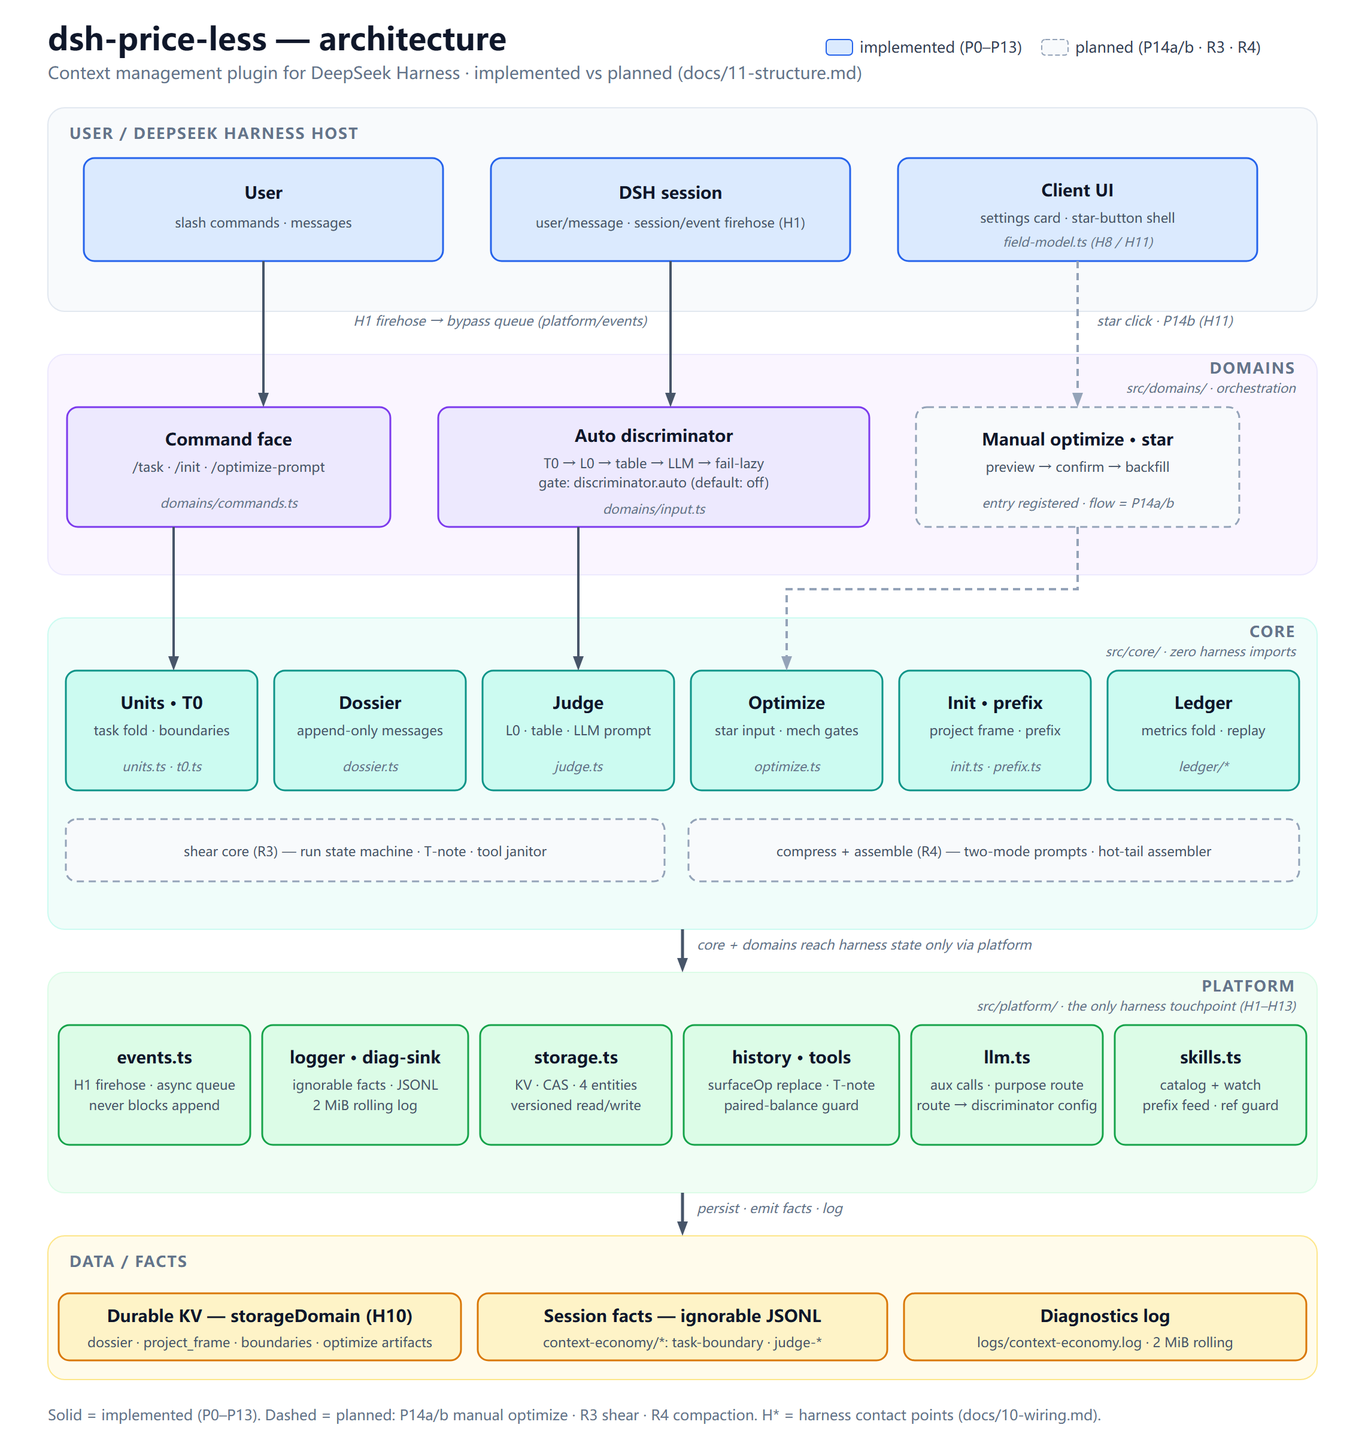
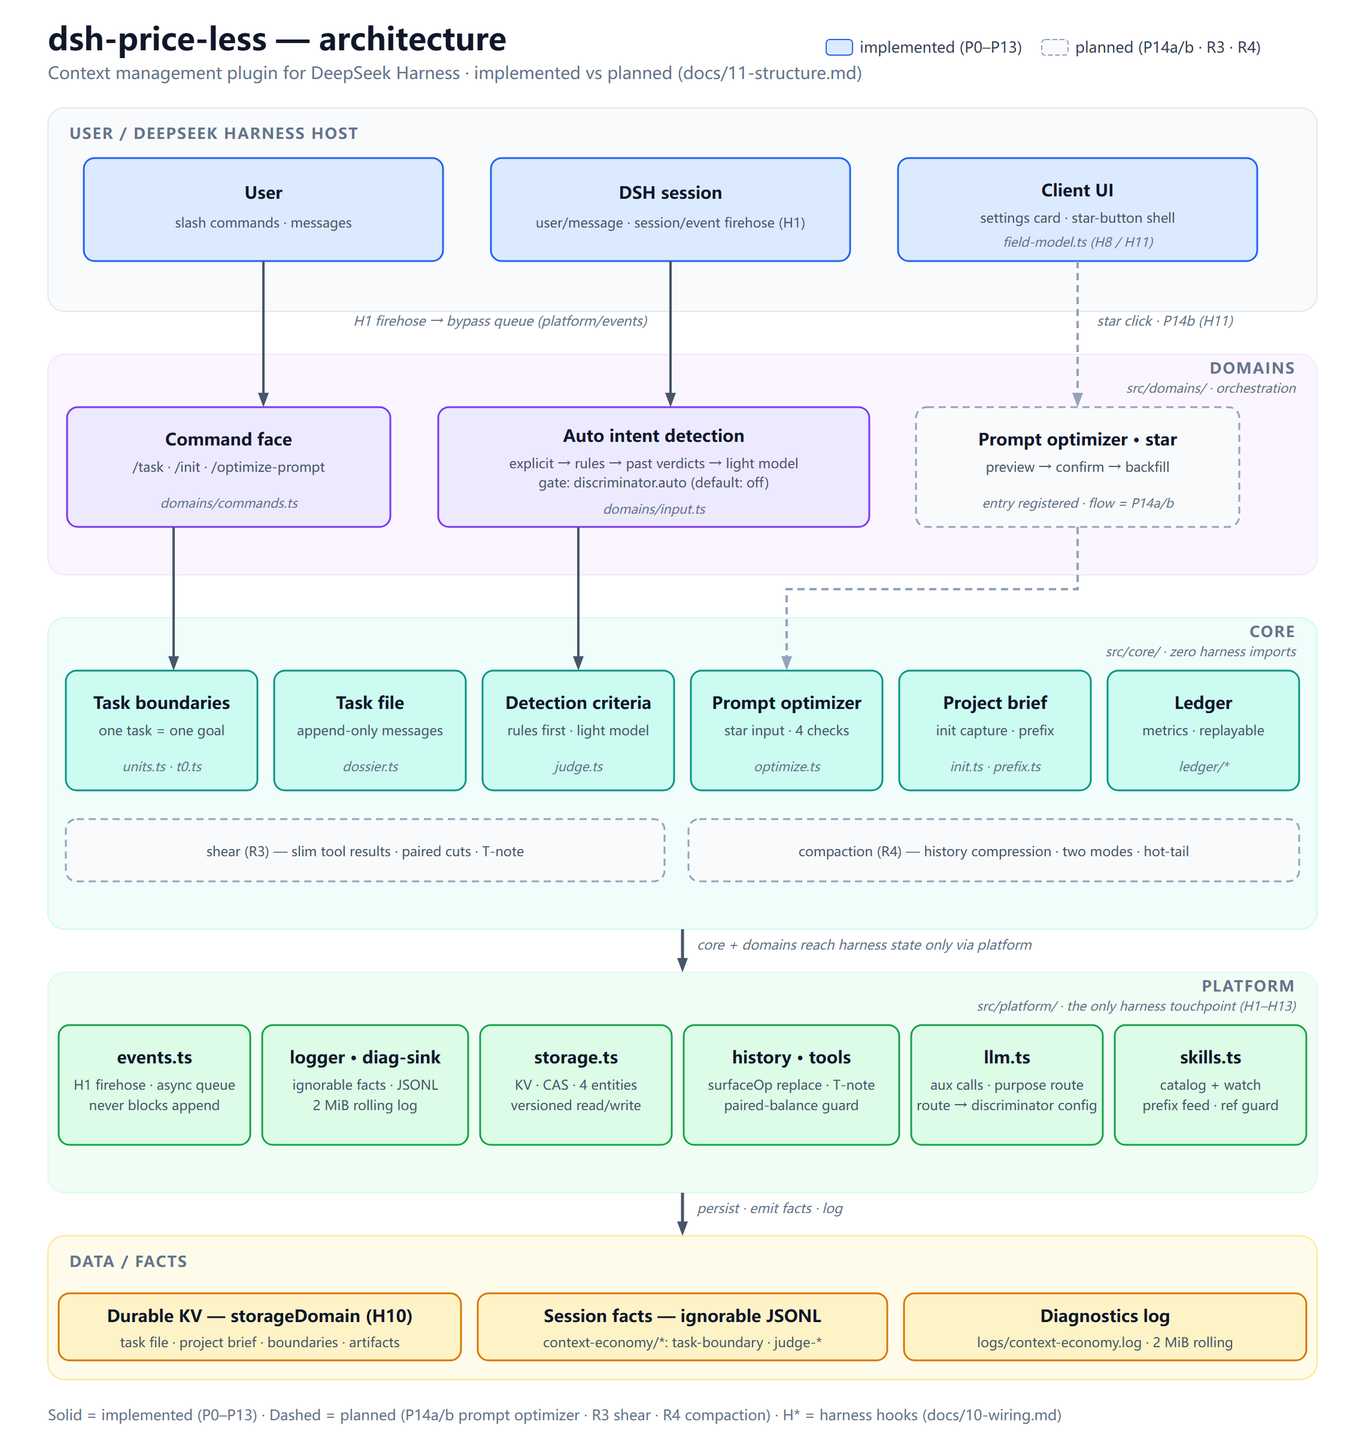
docs: README 与架构图术语通俗化（人话先行、正典词随行）
- About 补价值主张：一句话说清"解决什么问题"（长会话贵且跑偏，
  插件替你整理上下文：该留的留、该删的删、拿准不准都不动刀）
- 术语双层替换：断面→提示词优化器、项目帧→项目档案（project frame）、
  卷宗→任务资料夹（dossier）、自动判别→自动识别；T0/L0/对表/fail-lazy
  等层号与黑话改为描述性说法（先规则、后轻量模型；拿不准就保持原样）
- 技术契约不动：命令名、事件名（context-economy/*）、配置键、文件名
  （dossier.ts 等）保留，作为通往 docs/ 正典与代码的锚点
- 中英 README 与中英架构图（svg+png）同步更新，渲染后经视觉验收

diff --git a/README.md b/README.md
@@ -39,51 +39,51 @@
 
 ## About The Project
 
-`dsh-price-less` is a non-official DeepSeek Harness plugin focused on context economy. It helps reduce token waste by:
+Long AI-coding sessions get expensive — and drift. `dsh-price-less` is an unofficial **context steward** for DeepSeek Harness: it remembers what you are working on, tidies the context sent to the model — keeps what matters, drops what doesn't, and never touches anything it isn't sure about — so every token you send earns its place.
 
-- Establishing explicit task boundaries
-- Initializing a project frame through user confirmation
-- Automatically discriminating task continuation, new tasks, and message classes
-- Providing a manual context section entry point
-- Keeping all plugin facts replayable and fail-safe
+- **Explicit tasks**: `/task` tells the plugin what you are working on; opening and closing tasks is always your call
+- **Project brief (project frame)**: `/init` asks a few questions and writes a project brief, so the model always knows what this project is
+- **Intent detection**: decides whether each message continues the current task or starts a new one — keyword rules first, a light auxiliary model only when unsure
+- **Prompt optimizer**: `/optimize-prompt` tidies the current prompt on demand; the coming star button shares the same entry
+- **Log-only & replayable**: every plugin action leaves a replayable fact log; on any failure it changes nothing — your content is never lost
 
 ## Current Status
 
 | Area | Status |
 |---|---|
-| R1 platform layer | Completed |
-| R2 discriminator core (P8–P13) | Completed |
-| P14a/P14b manual optimize + star UI | Not yet wired |
-| R3 shear / R4 compaction | Planned |
+| R1 platform foundation (events, storage, logs, LLM calls) | Completed |
+| R2 detection & optimizer core (P8–P13) | Completed |
+| P14a/P14b prompt optimizer + star button | Not yet wired |
+| R3 shear (slim tool results) / R4 compaction (history compression) | Planned |
 | npm/tarball distribution | Not published yet |
 
-> **Important**: automatic discrimination is **off by default**. Enable it explicitly with `discriminator.auto = true`. The `/optimize-prompt` command is registered, but the full manual-optimize flow will only be available after P14b.
+> **Important**: automatic intent detection is **off by default**. Enable it explicitly with `discriminator.auto = true`. The `/optimize-prompt` command is registered, but the full prompt-optimizer flow arrives with P14b.
 
 ## Features
 
-- **Task boundaries**: `/task`, `/task close`, and `/task` status.
-- **Project frame**: `/init` proposal → user confirmation → persisted `project_frame` v1.
-- **Automatic discrimination**: T0 → L0 → table matching → LLM → fail-lazy chain.
-- **Manual section**: `/optimize-prompt` entry point, shared with the future star button.
-- **Replayable facts**: all `context-economy/*` events are log-only and `ignorable`.
-- **Graceful degradation**: falls back to KV fact mirroring when the harness ignorable channel is unavailable.
+- **Task boundaries**: `/task`, `/task close`, `/task` status — split continuous work into clearly bounded tasks
+- **Project brief**: `/init` proposal → your confirmation → persisted as project brief v1 (`project_frame`)
+- **Intent detection**: your explicit instruction first, then zero-cost keyword rules, then past verdicts, and only then a light model — anything unresolved stays untouched (fail-lazy)
+- **Prompt optimizer**: `/optimize-prompt` entry point, shared with the future star button
+- **Replayable facts**: all `context-economy/*` events are log-only and `ignorable`
+- **Graceful degradation**: if the harness lacks the ignorable channel, facts fall back to KV mirroring — still recorded, just stored elsewhere
 
 ## Architecture
 
 ![Architecture](docs/architecture.png)
 
-The diagram shows the current implemented architecture with color-coded layers and clearly marks planned modules as dashed.
+The diagram shows the current implemented architecture with color-coded layers and clearly marks planned modules as dashed. How to read it in one line: you and the harness sit on top; `domains/` decides what to do, `core/` does the computing, `platform/` does the connecting — the bottom band is what gets recorded.
 
 ```text
 src/
-├─ platform/    # Harness adapter layer, only external touchpoint
-├─ core/        # Pure logic, zero harness imports
-├─ domains/     # Command face, automatic discriminator, orchestration
-├─ config.ts    # Config schema and defaults
-├─ settings.ts  # Settings UI wiring
-└─ index.ts     # Plugin entry
-client/         # Settings card and star-button UI shell
-docs/           # Design canon and implementation work orders
+├─ platform/    # adapter layer — the plugin's only way to touch the harness
+├─ core/        # pure logic — computation only, zero harness imports
+├─ domains/     # orchestration — commands, intent detection, wiring
+├─ config.ts    # config schema and defaults
+├─ settings.ts  # settings UI wiring
+└─ index.ts     # plugin entry
+client/         # settings card and star-button UI
+docs/           # design canon and work orders
 ```
 
 ## Getting Started
@@ -131,24 +131,24 @@ Configuration is currently grouped under `discriminator`.
 
 | Key | Type | Schema default | Description |
 |---|---|---|---|
-| `discriminator.auto` | boolean | `false` | Master switch for automatic discrimination |
+| `discriminator.auto` | boolean | `false` | Master switch for automatic intent detection |
 | `discriminator.provider` | string | unset | Auxiliary LLM provider; when set together with `model`, overrides the built-in preset |
 | `discriminator.model` | string | unset | Auxiliary LLM model; when set together with `provider`, overrides the built-in preset |
 
-> The schema declares no default for `provider`/`model`. Left empty, auxiliary calls (automatic discrimination, `/init`) fall back to the built-in preset `deepseek-official` / `deepseek-v4-flash-vision-exp`; setting **both** values overrides it. Enabling `discriminator.auto` or using `/init` may invoke an auxiliary LLM. This can incur API costs and may send relevant prompt content to the configured model provider.
+> The schema declares no default for `provider`/`model`. Left empty, auxiliary calls (intent detection, `/init`) fall back to the built-in preset `deepseek-official` / `deepseek-v4-flash-vision-exp`; setting **both** values overrides it. Enabling `discriminator.auto` or using `/init` may invoke the auxiliary LLM. This can incur API costs and may send relevant prompt content to the configured provider.
 
 ## Commands
 
 | Command | Purpose |
 |---|---|
 | `/task <description>` | Explicitly open a new task |
-| `/task close` | Explicitly close the current task |
+| `/task close` | Close the current task |
 | `/task` | Show current task status |
-| `/init <goal>` | Start a project frame initialization proposal |
-| `/init confirm` | Confirm and persist `project_frame` v1 |
+| `/init <goal>` | Start a project brief proposal |
+| `/init confirm` | Confirm and persist the project brief v1 (`project_frame`) |
 | `/init cancel` | Cancel the current proposal |
-| `/init` | Show current project frame |
-| `/optimize-prompt` | Manual context section entry; full flow pending P14b |
+| `/init` | Show the current project brief |
+| `/optimize-prompt` | Prompt optimizer entry; full flow pending P14b |
 
 ## Session Events
 
@@ -156,10 +156,10 @@ All currently emitted custom events are log-only and carry `ignorable: true`.
 
 | Event | Meaning |
 |---|---|
-| `context-economy/task-boundary` | Task boundary fact |
-| `context-economy/judge-recorded` | Automatic discrimination record |
-| `context-economy/judge-error` | Discrimination failure record |
-| `context-economy/judge-verdict` | New task verdict |
+| `context-economy/task-boundary` | Task boundary fact (which task opened / closed) |
+| `context-economy/judge-recorded` | One complete intent-detection record |
+| `context-economy/judge-error` | One failed detection record |
+| `context-economy/judge-verdict` | The verdict: new task or not |
 
 ## Documentation
 
@@ -184,22 +184,22 @@ The design canon is maintained under [`docs/`](docs/):
 
 | Phase | Scope | Status |
 |---|---|---|
-| R1 | Platform: events, storage, skills, LLM, history, tools | Completed |
-| R2 | Discriminator: task boundaries, project frame, auto/manual sections | P8–P13 done; P14 pending |
-| R3 | Shear domain | Planned |
-| R4 | Compaction domain | Planned |
+| R1 | Platform foundation: events, storage, skills, LLM, history, tools | Completed |
+| R2 | Detection: task boundaries, project brief, intent detection & prompt optimizer | P8–P13 done; P14 pending |
+| R3 | Shear: slim tool results | Planned |
+| R4 | Compaction: history compression | Planned |
 
 See [docs/implement/00-master.md](docs/implement/00-master.md) for detailed work orders.
 
 ## Known Limitations
 
 - **Not published**: the package is still marked `private` and there is no official npm/tarball release.
-- **Automatic mode is opt-in**: `discriminator.auto` defaults to `false` to avoid unexpected auxiliary LLM costs.
-- **Manual optimize is incomplete**: `/optimize-prompt` is only an entry point; the full star-button flow depends on P14b.
-- **R3/R4 not implemented**: shear and compaction domains are designed but not yet available.
+- **Intent detection is opt-in**: `discriminator.auto` defaults to `false` to avoid unexpected auxiliary LLM costs.
+- **Prompt optimizer is incomplete**: `/optimize-prompt` is only an entry point; the full star-button flow depends on P14b.
+- **R3/R4 not implemented**: shear (slimming tool results) and compaction (history compression) are designed but not yet available.
 - **Local checkout required**: building currently requires a local DeepSeek Harness source checkout and `dev_inject_plugin`.
 - **Ignorable-channel dependency**: if the host harness does not include the local ignorable channel, plugin facts are mirrored to KV instead of being written as session events. Replay and observability may be reduced until the upstream channel is merged.
-- **LLM calls**: enabling automatic discrimination or using `/init` may send content to the configured auxiliary LLM provider and incur costs.
+- **LLM calls**: enabling intent detection or using `/init` may send content to the configured auxiliary LLM and incur costs.
 - **Non-affiliation**: this project is not affiliated with DeepSeek.
 
 ## Contributing

diff --git a/README.zh-CN.md b/README.zh-CN.md
@@ -39,51 +39,51 @@
 
 ## 项目介绍
 
-`dsh-price-less` 是非官方的 DeepSeek Harness 上下文管理插件，致力于让“送进模型的每个 token”更有价值：
+AI 编程会话越长越贵，也越容易跑偏。`dsh-price-less` 是非官方的 DeepSeek Harness **上下文管家**：它替你记住“现在在干嘛”，自动整理送进模型的上下文——该留的留下，该删的删掉，拿不准的不动，让每个 token 都花在刀刃上。
 
-- 建立显式任务边界
-- 通过用户确认初始化项目帧
-- 自动判别任务延续、新任务与消息类型
-- 提供手动断面入口
-- 所有插件事实可回放、可降级
+- **显式大任务（task）**：`/task` 一句话告诉插件现在在干嘛；开新任务、收尾旧任务，始终由你拍板
+- **项目档案（project frame）**：`/init` 一问一答生成项目背景卡，模型始终带着“这是个什么项目”干活
+- **自动识别**：判断每条消息是延续当前大任务，还是开了新的大任务——先关键词规则，拿不准才请轻量模型
+- **提示词优化器**：`/optimize-prompt` 手动整理当前提示词，未来与星标按钮共用同一入口
+- **只记账、可回放**：插件每个动作都留下可回放的事实日志；任何失败都“不动刀”，绝不弄丢你的内容
 
 ## 当前状态
 
 | 区域 | 状态 |
 |---|---|
-| R1 平台层 | 已完成 |
-| R2 判别域核心（P8–P13） | 已完成 |
-| P14a/P14b 手动断面与星标 UI | 尚未接线 |
-| R3 剪切域 / R4 压缩域 | 计划中 |
+| R1 平台底座（事件、存储、日志、模型调用） | 已完成 |
+| R2 识别与优化核心（P8–P13） | 已完成 |
+| P14a/P14b 提示词优化器与星标按钮 | 尚未接线 |
+| R3 剪切（工具结果瘦身）/ R4 压缩（历史压缩） | 计划中 |
 | npm / tarball 发布 | 尚未发布 |
 
-> **重要**：自动判别默认**关闭**，需要显式设置 `discriminator.auto = true` 才会启用。`/optimize-prompt` 命令已注册，但完整手动断面流程要等 P14b 后才可用。
+> **重要**：自动识别默认**关闭**，需要显式设置 `discriminator.auto = true` 才会启用。`/optimize-prompt` 命令已注册，但完整提示词优化流程要等 P14b 后才可用。
 
 ## 核心特性
 
-- **任务边界**：`/task`、`/task close`、`/task` 状态查看
-- **项目帧**：`/init` 提案 → 用户确认 → 持久化 `project_frame` v1
-- **自动判别**：T0 → L0 → 对表 → LLM → fail-lazy 决策链
-- **手动断面**：`/optimize-prompt` 入口，后续与星标按钮共用
-- **事实可回放**：`context-economy/*` 事件全部 log-only + ignorable
-- **优雅降级**：harness 缺少 ignorable 通道时降级为 KV 事实镜像
+- **大任务边界**：`/task`、`/task close`、`/task` 查看状态——把连续的工作切成一段段边界清晰的大任务
+- **项目档案**：`/init` 提案 → 你确认 → 写入项目档案 v1（`project_frame`）
+- **自动识别**：先看你的显式指令，再跑零成本关键词规则，然后比对过往判定，最后才请轻量模型——任何一步拿不准就保持原样（fail-lazy）
+- **提示词优化器**：`/optimize-prompt` 入口，后续与星标按钮共用
+- **事实可回放**：`context-economy/*` 事件全部只记账（log-only）、不打扰会话（ignorable）
+- **优雅降级**：harness 缺少 ignorable 通道时自动降级为 KV 事实镜像——事实照样留底，只是换了存放处
 
 ## 架构
 
 ![架构](docs/architecture.zh-CN.png)
 
-上图是当前实现架构的彩色分层图，已实现的模块用实线/彩色标注，计划中的模块用虚线标注。
+上图是当前实现架构的彩色分层图，已实现的模块用实线/彩色标注，计划中的模块用虚线标注。一句话读图：顶层是你和 harness；domains 决定“做什么”，core 负责“怎么算”，platform 负责“怎么连”，最底层是留下来的三类数据。
 
 ```text
 src/
-├─ platform/    # harness 适配层，唯一外部触点
-├─ core/        # 纯逻辑，零 harness import
-├─ domains/     # 命令面、自动断面、编排
-├─ config.ts    # 配置 schema 与默认值
-├─ settings.ts  # 设置 UI 接线
+├─ platform/    # 适配层：插件与 harness 打交道的唯一出口
+├─ core/        # 纯逻辑：只做计算，不依赖 harness
+├─ domains/     # 编排层：命令、自动识别、流程串接
+├─ config.ts    # 配置项与默认值
+├─ settings.ts  # 设置界面接线
 └─ index.ts     # 插件入口
-client/         # 设置卡与星标按钮 UI 壳
-docs/           # 设计正典与施工工单
+client/         # 设置卡片与星标按钮界面
+docs/           # 设计文档与施工工单
 ```
 
 ## 快速开始
@@ -131,35 +131,35 @@ dev_inject_plugin /path/to/dsh-price-less
 
 | 配置 | 类型 | schema 默认值 | 说明 |
 |---|---|---|---|
-| `discriminator.auto` | boolean | `false` | 自动断面总开关 |
-| `discriminator.provider` | string | 未设置 | 辅助 LLM provider；与 `model` 同时设置时覆盖内置预设 |
-| `discriminator.model` | string | 未设置 | 辅助 LLM 模型；与 `provider` 同时设置时覆盖内置预设 |
+| `discriminator.auto` | boolean | `false` | 自动识别总开关 |
+| `discriminator.provider` | string | 未设置 | 辅助模型 provider；与 `model` 同时设置时覆盖内置预设 |
+| `discriminator.model` | string | 未设置 | 辅助模型；与 `provider` 同时设置时覆盖内置预设 |
 
-> schema 未给 `provider` / `model` 声明默认值。留空时，辅助调用（自动判别、`/init`）回落到内置预设 `deepseek-official` / `deepseek-v4-flash-vision-exp`；两项**都**填写时以配置为准。开启 `discriminator.auto` 或使用 `/init` 可能会调用辅助 LLM，产生 API 费用，并可能把相关提示词内容发送给所配置的模型服务商。
+> schema 未给 `provider` / `model` 声明默认值。留空时，辅助调用（自动识别、`/init`）回落到内置预设 `deepseek-official` / `deepseek-v4-flash-vision-exp`；两项**都**填写时以配置为准。开启 `discriminator.auto` 或使用 `/init` 可能会调用辅助模型，产生 API 费用，并可能把相关提示词内容发送给所配置的服务商。
 
 ## 命令
 
 | 命令 | 作用 |
 |---|---|
-| `/task <描述>` | 显式开启新任务 |
-| `/task close` | 显式闭合当前任务 |
-| `/task` | 查看当前任务状态 |
-| `/init <项目目标>` | 发起项目帧初始化提案 |
-| `/init confirm` | 确认并写入 `project_frame` v1 |
+| `/task <描述>` | 显式开启一个新大任务 |
+| `/task close` | 收尾当前大任务 |
+| `/task` | 查看当前大任务状态 |
+| `/init <项目目标>` | 发起项目档案初始化提案 |
+| `/init confirm` | 确认并写入项目档案 v1（`project_frame`） |
 | `/init cancel` | 取消当前提案 |
-| `/init` | 查看当前项目帧 |
-| `/optimize-prompt` | 手动断面入口；完整流程待 P14b |
+| `/init` | 查看当前项目档案 |
+| `/optimize-prompt` | 提示词优化器入口；完整流程待 P14b |
 
 ## 会话事实
 
-当前已发射的自定义事件均为 log-only，并携带 `ignorable: true`。
+当前已发射的自定义事件均为只记账（log-only），并携带 `ignorable: true`。
 
 | 事件 | 含义 |
 |---|---|
-| `context-economy/task-boundary` | 任务边界事实 |
-| `context-economy/judge-recorded` | 自动判别记录 |
-| `context-economy/judge-error` | 判别失败记录 |
-| `context-economy/judge-verdict` | 新任务判定 |
+| `context-economy/task-boundary` | 大任务边界事实（开了 / 关了哪个任务） |
+| `context-economy/judge-recorded` | 一次自动识别的完整记录 |
+| `context-economy/judge-error` | 一次识别失败的记录 |
+| `context-economy/judge-verdict` | 识别结论：是不是新大任务 |
 
 ## 文档
 
@@ -184,22 +184,22 @@ dev_inject_plugin /path/to/dsh-price-less
 
 | 阶段 | 范围 | 状态 |
 |---|---|---|
-| R1 | 平台面：事件、存储、技能、LLM、历史、工具 | 已完成 |
-| R2 | 判别域：任务边界、项目帧、自动/手动断面 | P8–P13 已完成；P14 待接入 |
-| R3 | 剪切域 | 计划中 |
-| R4 | 压缩域 | 计划中 |
+| R1 | 平台底座：事件、存储、技能目录、模型调用、历史改写、工具 | 已完成 |
+| R2 | 识别域：大任务边界、项目档案、自动识别与提示词优化 | P8–P13 已完成；P14 待接入 |
+| R3 | 剪切：工具结果瘦身 | 计划中 |
+| R4 | 压缩：历史压缩 | 计划中 |
 
 详细工单见 [docs/implement/00-master.md](docs/implement/00-master.md)。
 
 ## 已知限制
 
 - **尚未发布**：`package.json` 仍标记为 `private`，暂无官方 npm/tarball 发布。
-- **自动模式默认关闭**：`discriminator.auto` 默认为 `false`，避免产生非预期的辅助 LLM 费用。
-- **手动断面不完整**：`/optimize-prompt` 目前只是入口，完整星标流程依赖 P14b。
-- **R3/R4 尚未实现**：剪切域与压缩域仍在设计/计划阶段。
+- **自动识别默认关闭**：`discriminator.auto` 默认为 `false`，避免产生非预期的辅助模型费用。
+- **提示词优化器不完整**：`/optimize-prompt` 目前只是入口，完整星标流程依赖 P14b。
+- **R3/R4 尚未实现**：剪切（工具结果瘦身）与压缩（历史压缩）仍在设计/计划阶段。
 - **需要本地 checkout**：当前构建需要本地 DeepSeek Harness 源码仓库和 `dev_inject_plugin`。
 - **依赖 ignorable 通道**：如果宿主 harness 未包含本地 ignorable 通道，插件事实会降级到 KV 镜像，而不是写入会话事件；在上游通道合并前，回放和可观测性可能受限。
-- **LLM 调用**：开启自动判别或使用 `/init` 可能将内容发送给所配置的辅助 LLM，并产生费用。
+- **模型调用**：开启自动识别或使用 `/init` 可能将内容发送给所配置的辅助模型，并产生费用。
 - **非隶属关系**：本项目与 DeepSeek 无隶属关系。
 
 ## 贡献
